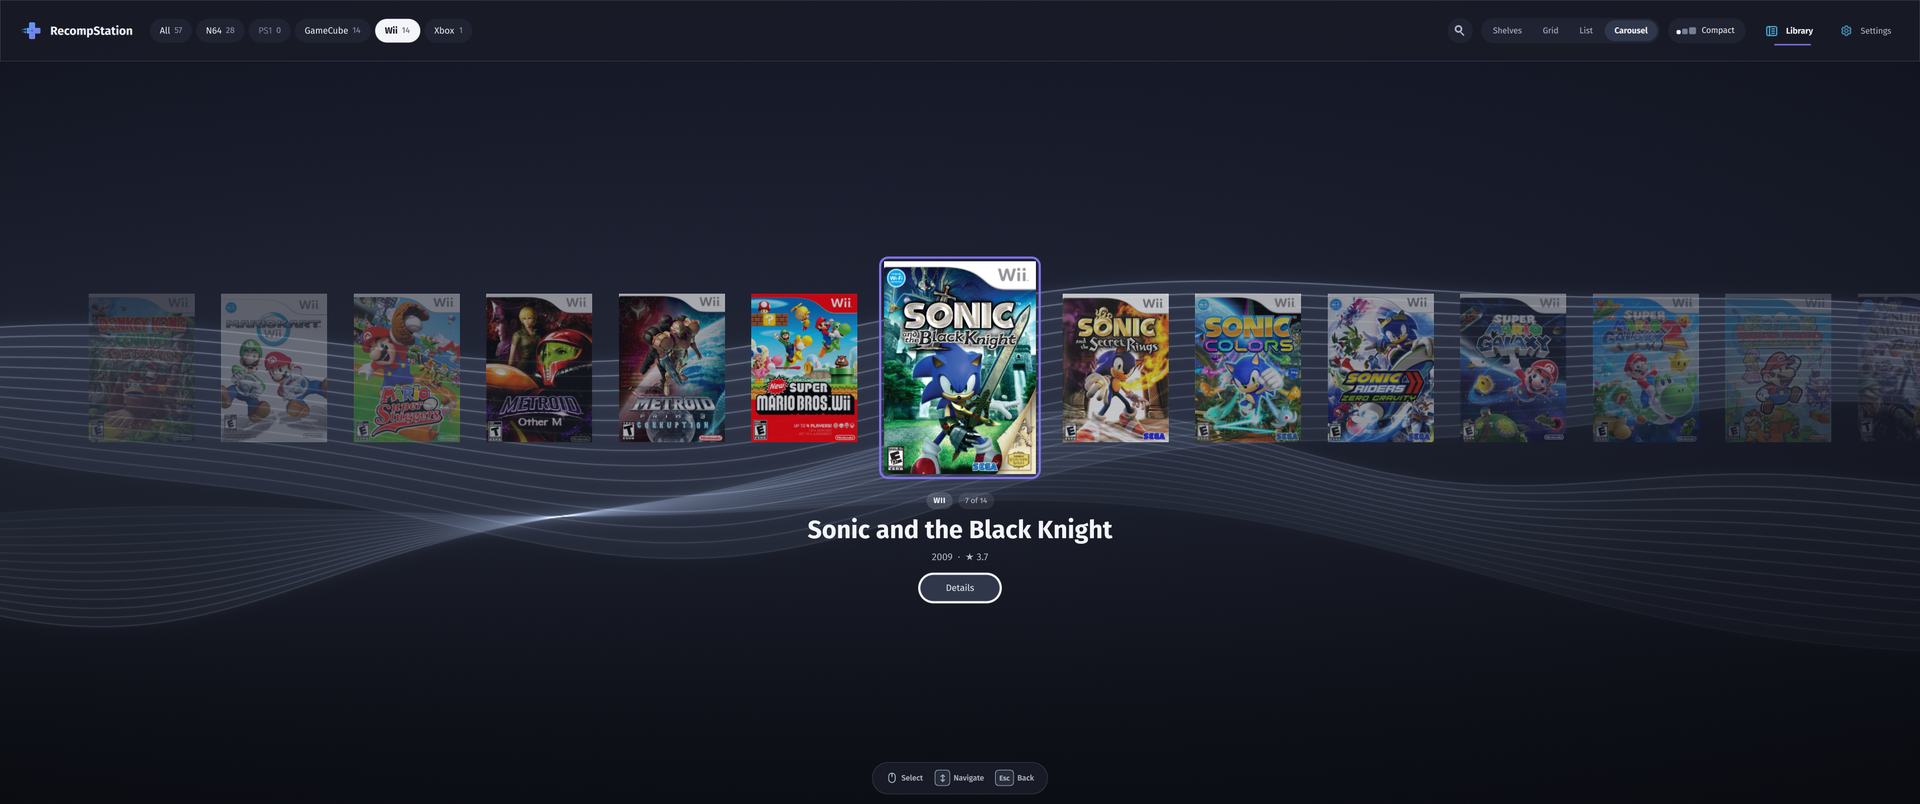
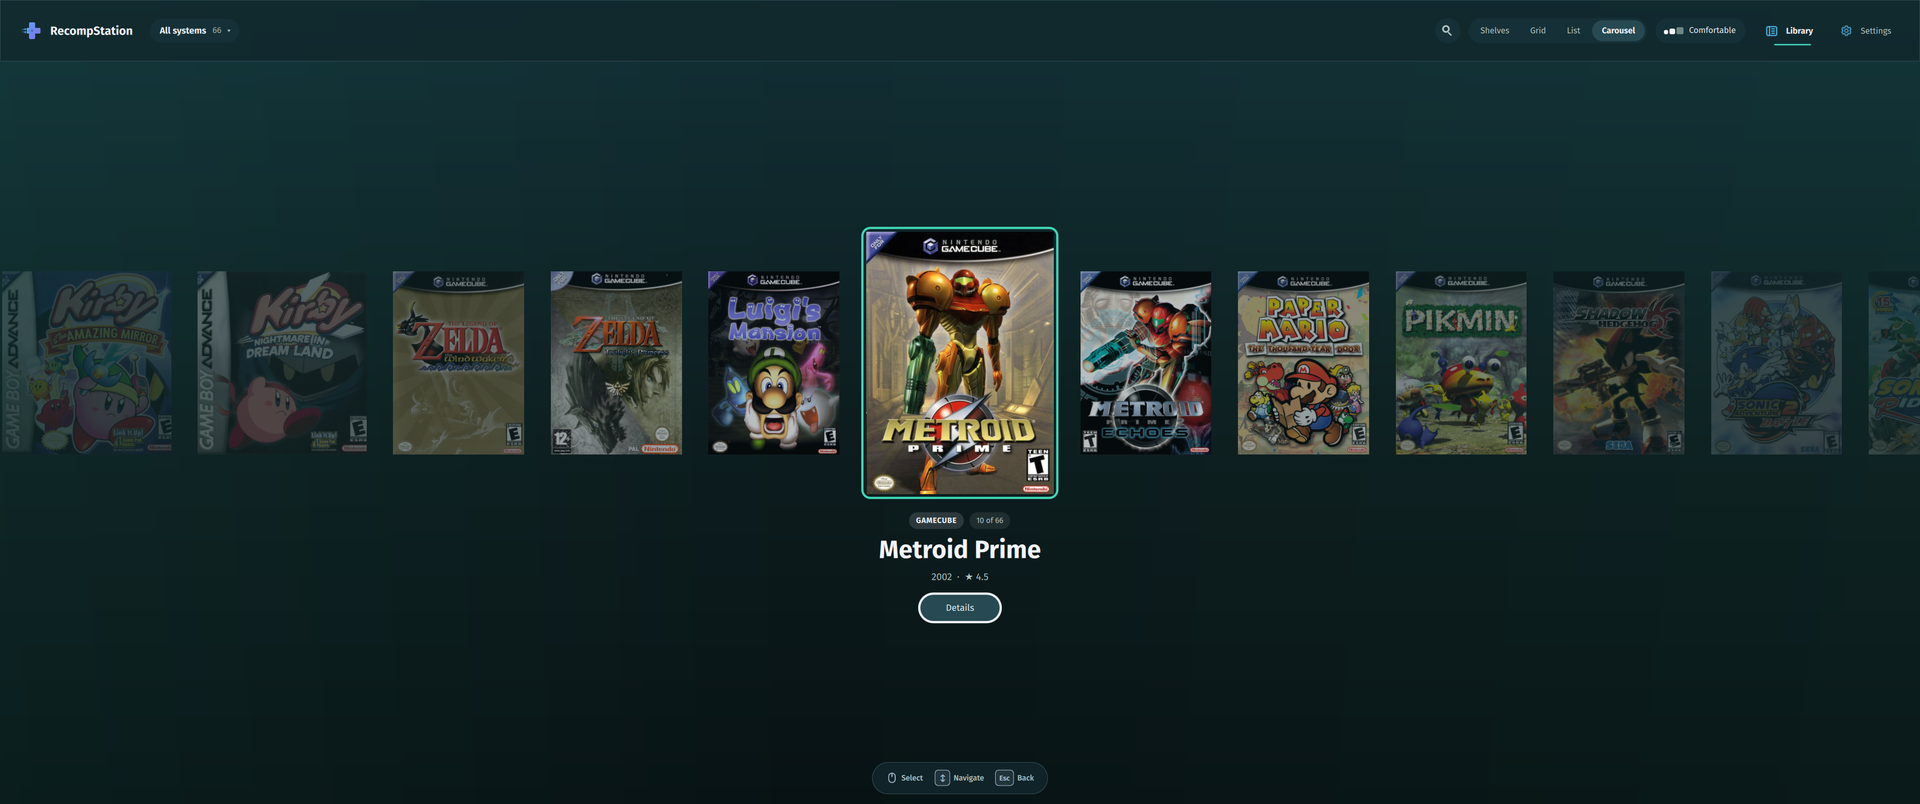
Replace README screenshots with current ones
Game Details of an installed game and the four Library views, scaled to
1920 px wide with all metadata removed.

Claude-Session: https://claude.ai/code/session_01KFWK2tKicPqGQnk8PDWMNQ

Changed region(s): [[0.0, 0.2799, 1.0, 0.7774], [0.7188, 0.0311, 1.0, 0.2177], [0.0, 0.0, 0.25, 0.2177]]

diff --git a/docs/screenshots/README.md b/docs/screenshots/README.md
@@ -6,11 +6,11 @@ committing; the files hold image data only.
 
 | File | What it shows |
 | --- | --- |
-| `game-details.png` | Game Details of a game with a recompilation project available |
-| `library-shelves.png` | Library, Shelves view, All Platforms, spotlight on the selected game |
-| `library-grid.png` | Library, Grid view, sections per system |
-| `library-list.png` | Library, List view with the preview pane, custom wallpaper |
-| `library-carousel.png` | Library, Carousel view |
+| `game-details.png` | Game Details of an installed game (Diddy Kong Racing) with its recompilation project, version and launch settings |
+| `library-shelves.png` | Library, Shelves view, All systems, spotlight on the selected game, wave background |
+| `library-grid.png` | Library, Grid view, sections per system, custom wallpaper |
+| `library-list.png` | Library, List view with the preview pane, wave background |
+| `library-carousel.png` | Library, Carousel view, Aurora theme |
 
 To add or replace one, strip metadata first, for example:
 `convert input.png -strip -resize 1920x output.png` (ImageMagick).

diff --git a/README.md b/README.md
@@ -68,7 +68,7 @@ RecompStation brings them together in a single library that you can use from the
 
 ## Screenshots
 
-**Game Details:** cover, description, screenshots, and the recompilation project for the game, ready to install and play.
+**Game Details:** cover, description, screenshots, and the game's recompilation project: installed version, the game file it needs, and how it launches.
 
 ![Game Details](docs/screenshots/game-details.png)
 
